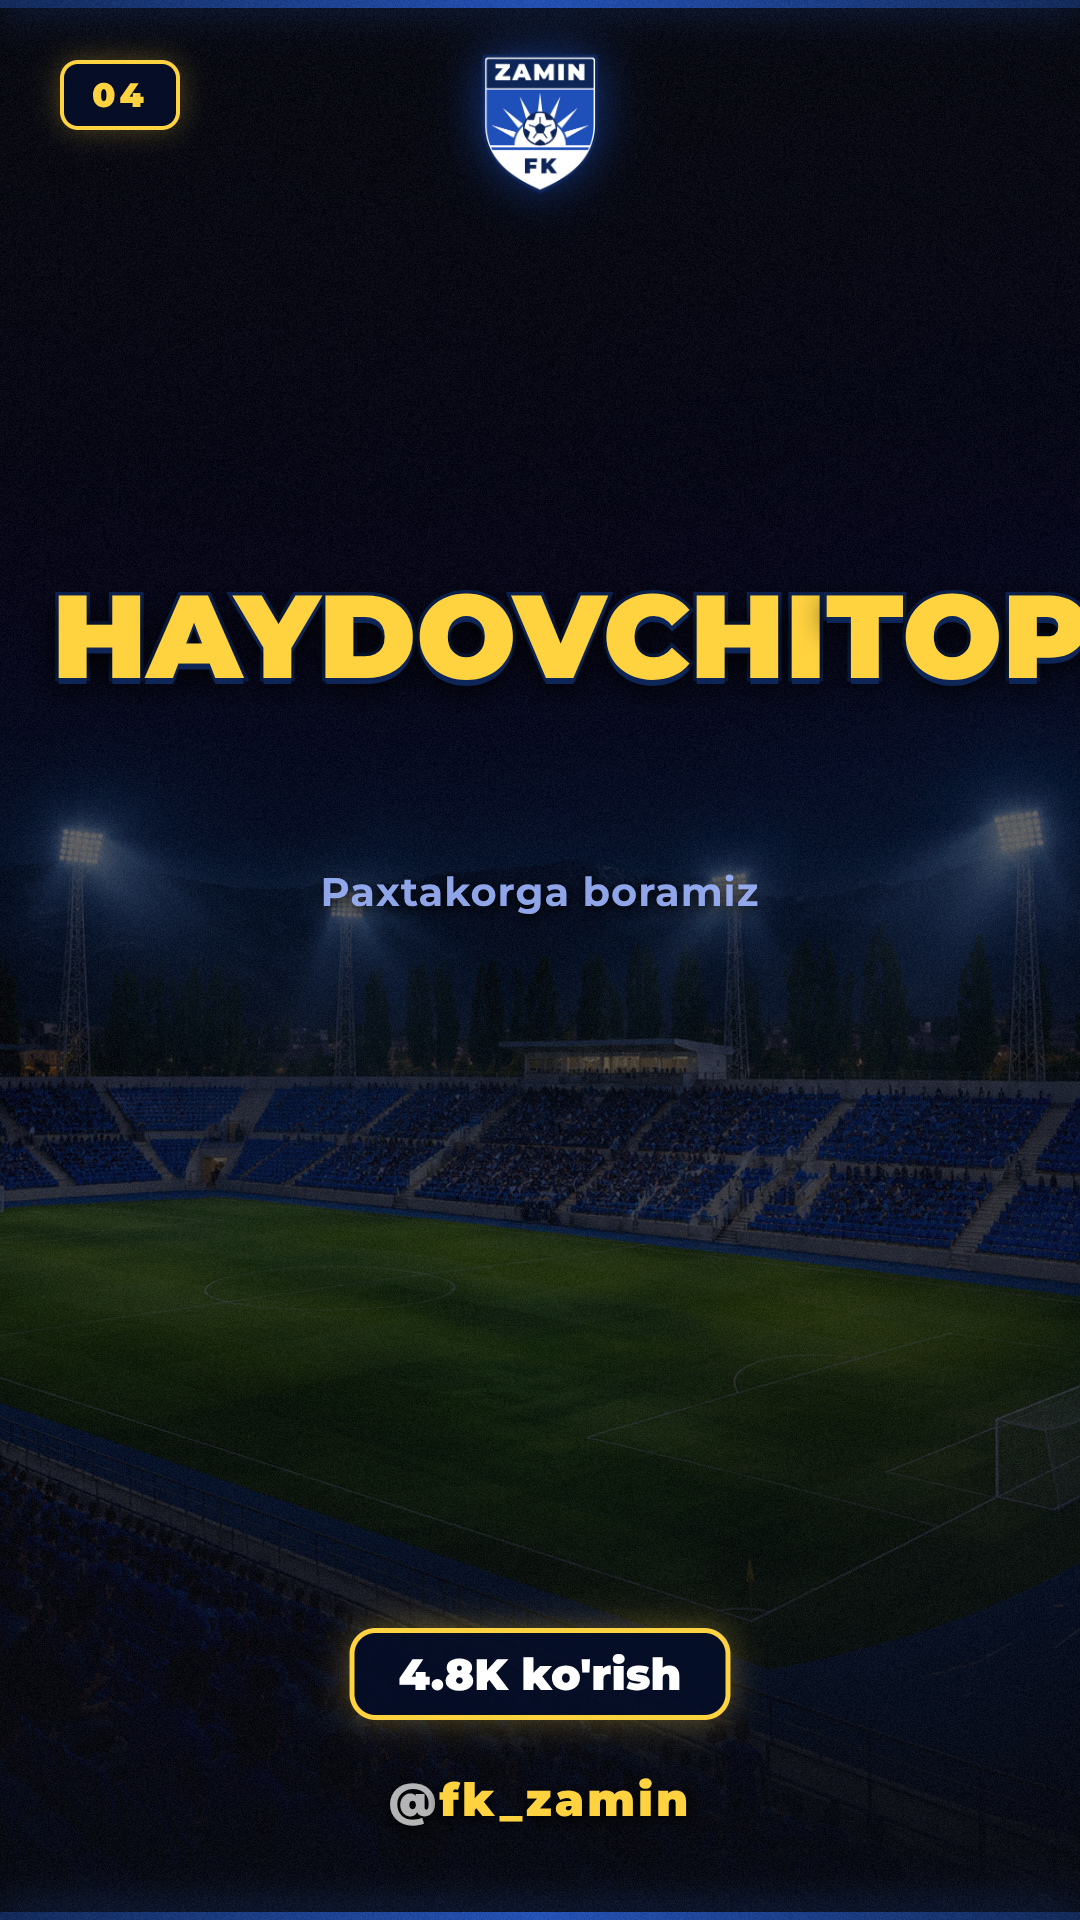
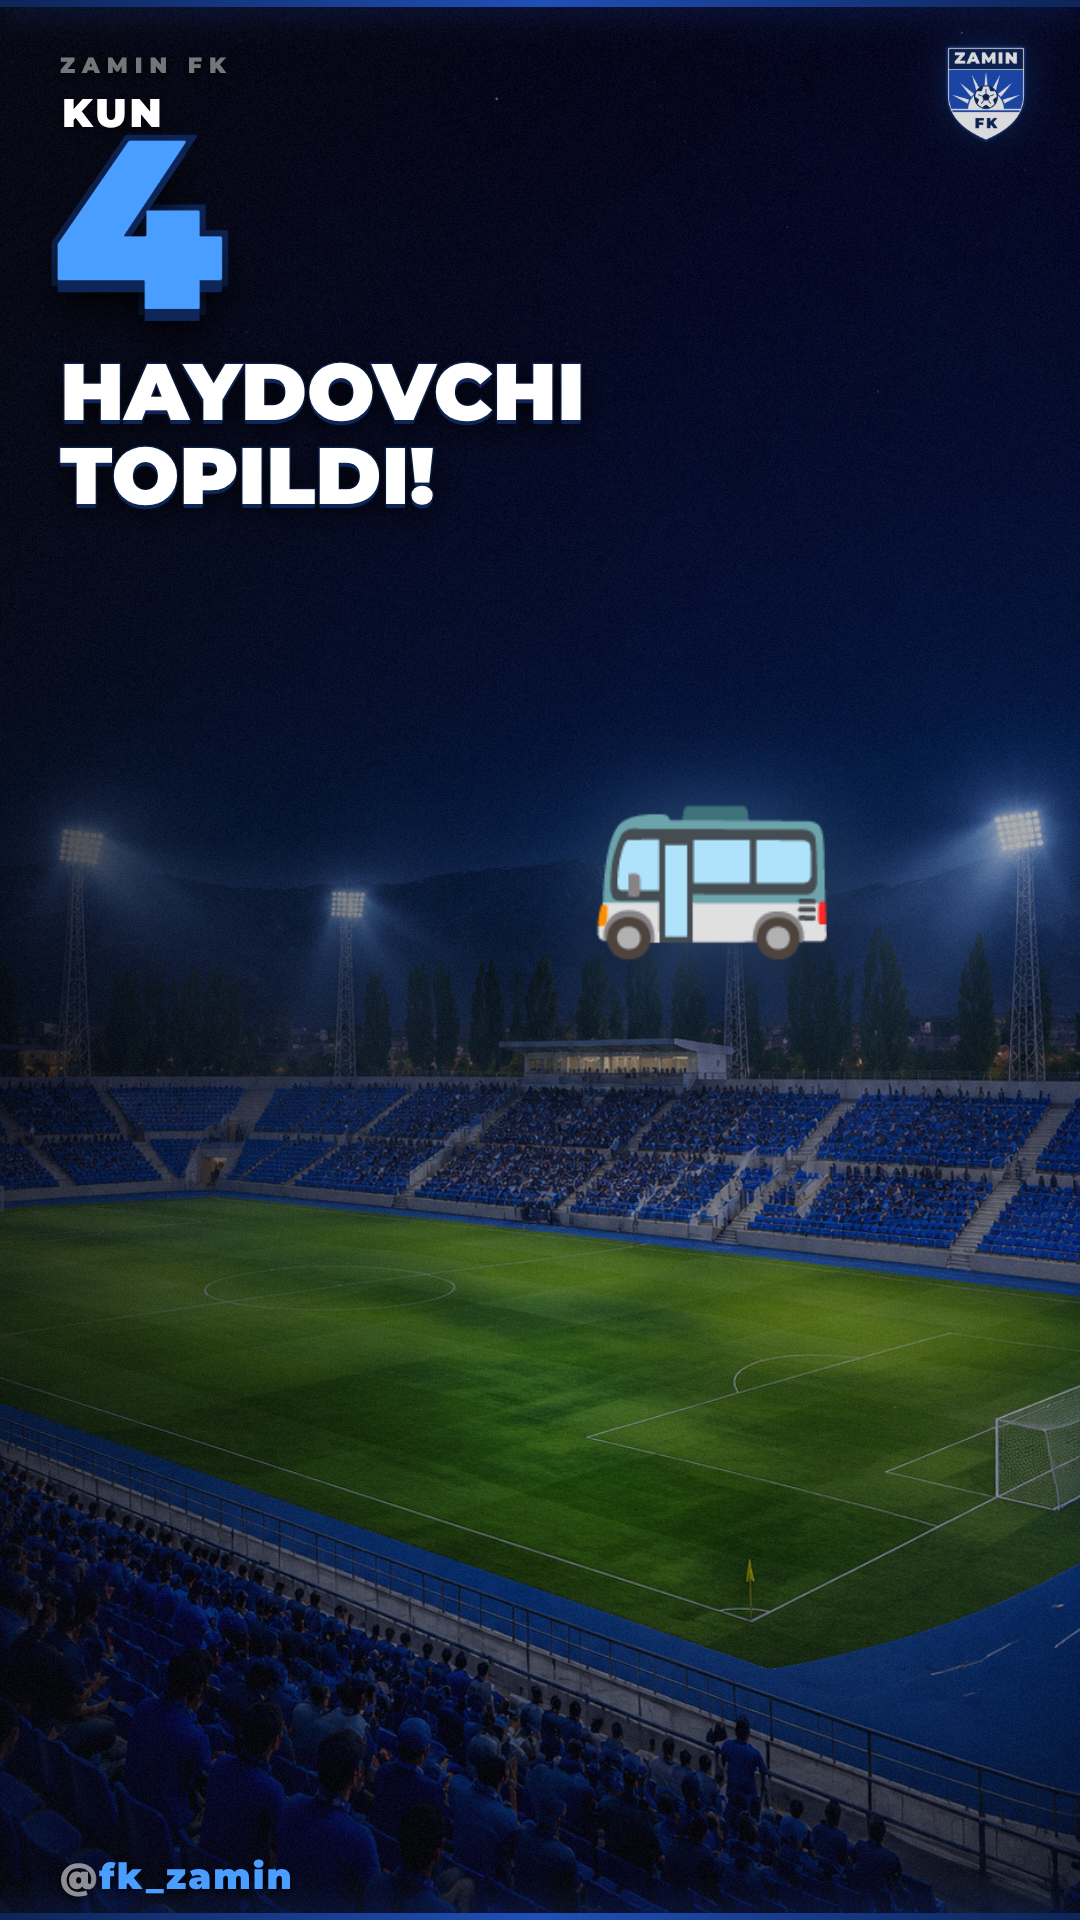
covers: add thematic center elements per episode
- Goat (special large white-glow style) for cover 4
- CSS tactical board (4-3-3 dots) for cover 14
- CSS coach card for cover 17
- CSS mini XI formation grid for cover 19
- CSS 2:2 scoreboard for cover 11
- CSS 305/500 progress bar for cover 12
- Thematic emoji (trophy, bus, ball, fire, etc.) for remaining covers

Claude-Session: https://claude.ai/code/session_017oAb5JybVNWND8Xih9kaCy

diff --git a/ZAMIN_FK/covers/render_covers.js b/ZAMIN_FK/covers/render_covers.js
@@ -14,52 +14,176 @@ const K={
  17:"K4a_father_son",18:"K2_dark", 19:"K3_full"
 };
 
-// bright: how visible the stadium image is (0=black, 1=full)
-const COVERS=[
-  {n:1,  hero:"NOLDAN\nBOSHLANDI",     sub:"Virtual klub tug'ildi",          views:5383,  bright:0.72},
-  {n:2,  hero:"STADION\nTANLANDI!",    sub:"74 muxlis. 161 layk. 1 kun.",    views:8780,  bright:0.70},
-  {n:3,  hero:"DOSTON\nYUTDI!",         sub:"Himoyachi rasman tanlandi",      views:2255,  bright:0.68},
-  {n:4,  hero:"ECHKI\nKELDI",           sub:"Klub brend yuzi aniqlandi",      views:6604,  bright:0.72},
-  {n:5,  hero:"HAYDOVCHI\nTOPILDI!",   sub:"Paxtakorga boramiz",             views:4756,  bright:0.68},
-  {n:6,  hero:"O'RIN\nO'ZGARADI",       sub:"Bot XP — asosiy jamoa parvozi", views:5407,  bright:0.70},
-  {n:7,  hero:"YOSHLAR\nAKADEMIYASI",  sub:"Ovozlarning 69% — siz tandingiz",views:2222,  bright:0.65},
-  {n:8,  hero:"JOYINGIZ\nBOR",          sub:"500 muxlisga yetgach yangi imkon",views:2069, bright:0.78},
-  {n:9,  hero:"MATCH\nOLDIDAN",         sub:"ZAMIN FK vs STAR BOYS",          views:2593,  bright:0.62},
-  {n:10, hero:"ZAMIN FK\nCITY",         sub:"Shahar o'sib bormoqda",          views:1521,  bright:0.68},
-  {n:11, hero:"2:2\nSTAR BOYS",         sub:"To'rt gol. Bir kecha.",          views:4327,  bright:0.60},
-  {n:12, hero:"STADIONNI\nTO'LDIRING",  sub:"305 / 500 muxlis",               views:11229, bright:0.65},
-  {n:13, hero:"YANGI\nMENEJER",         sub:"G'oya sizdan — shahar sizdan",   views:4702,  bright:0.72},
-  {n:14, hero:"POZITSIYA\nTANLANG",     sub:"Muxlislar B — izohda o'rningni eg'alla",views:8188,bright:0.60},
-  {n:15, hero:"DO'STING\nKIM?",         sub:"Belgilab qo'y",                  views:2679,  bright:0.70},
-  {n:16, hero:"G'OYA\nSIZDAN",          sub:"Eng ko'p layk — quriladi",       views:2778,  bright:0.72},
-  {n:17, hero:"MURABBIY\nE'LON",        sub:"@hayitboyev.76 — Muxlislar A",   views:5126,  bright:0.72},
-  {n:18, hero:"SINOV\nJAMOASI",         sub:"53 885 ko'rish — 4 537 izoh",    views:53885, bright:0.52},
-  {n:19, hero:"MUXLISLAR A\nTARKIB",   sub:"11 o'rin. Tarkib tayyor!",        views:556,   bright:0.65},
-];
+// Center element: thematic icon per cover
+// cy = vertical center % of frame (0-100)
+function centerEl(c){
+  const style=(emoji,size=220,cy=46,glow="rgba(255,210,63,.55)",cx=50)=>
+    `<div style="position:absolute;top:${cy}%;left:${cx}%;
+      transform:translate(-50%,-50%);font-size:${size}px;line-height:1;
+      filter:drop-shadow(0 0 44px ${glow}) drop-shadow(0 12px 24px rgba(0,0,0,.85))">${emoji}</div>`;
 
-function heroFontSize(hero){
-  const max=Math.max(...hero.split("\n").map(l=>l.length));
-  if(max<=5)return 192;
-  if(max<=7)return 168;
-  if(max<=9)return 142;
-  if(max<=11)return 118;
-  return 100;
+  // CSS tactical board (green mini-pitch with player dots)
+  const tacticBoard=`
+<div style="position:absolute;top:44%;left:68%;transform:translate(-50%,-50%);
+  width:280px;height:380px;background:rgba(14,120,52,.88);border-radius:16px;
+  border:3px solid rgba(255,210,63,.6);box-shadow:0 0 48px rgba(0,0,0,.8);overflow:hidden">
+  <!-- pitch lines -->
+  <div style="position:absolute;top:50%;left:0;right:0;height:2px;background:rgba(255,255,255,.25)"></div>
+  <div style="position:absolute;top:50%;left:50%;transform:translateX(-50%);
+    width:70px;height:70px;border-radius:50%;border:2px solid rgba(255,255,255,.2)"></div>
+  <!-- 4-3-3 formation dots: GK, 4 DEF, 3 MID, 3 FWD -->
+  <!-- GK -->
+  <div style="position:absolute;bottom:14px;left:50%;transform:translateX(-50%);
+    width:22px;height:22px;border-radius:50%;background:#FFD23F;border:2px solid #fff"></div>
+  <!-- DEF -->
+  ${[18,36,52,70].map(l=>`<div style="position:absolute;bottom:80px;left:${l}%;
+    transform:translateX(-50%);width:20px;height:20px;border-radius:50%;
+    background:#fff;border:2px solid #FFD23F"></div>`).join("")}
+  <!-- MID -->
+  ${[26,50,74].map(l=>`<div style="position:absolute;bottom:168px;left:${l}%;
+    transform:translateX(-50%);width:20px;height:20px;border-radius:50%;
+    background:#fff;border:2px solid #FFD23F"></div>`).join("")}
+  <!-- FWD -->
+  ${[22,50,78].map(l=>`<div style="position:absolute;bottom:252px;left:${l}%;
+    transform:translateX(-50%);width:20px;height:20px;border-radius:50%;
+    background:#FFD23F;border:2px solid #fff"></div>`).join("")}
+</div>`;
+
+  // CSS scoreboard
+  const score22=`
+<div style="position:absolute;top:42%;left:66%;transform:translate(-50%,-50%);
+  display:flex;align-items:center;gap:14px">
+  <div style="font-family:MZ,sans-serif;font-size:200px;font-weight:900;color:#fff;
+    text-shadow:0 8px 0 #0D2557,0 16px 40px rgba(0,0,0,.95);
+    -webkit-text-stroke:8px #0D2557;paint-order:stroke fill">2</div>
+  <div style="font-family:MZ,sans-serif;font-size:160px;font-weight:900;color:#F87171;
+    text-shadow:0 8px 0 #0D2557,0 16px 40px rgba(0,0,0,.9)">:</div>
+  <div style="font-family:MZ,sans-serif;font-size:200px;font-weight:900;color:#fff;
+    text-shadow:0 8px 0 #0D2557,0 16px 40px rgba(0,0,0,.95);
+    -webkit-text-stroke:8px #0D2557;paint-order:stroke fill">2</div>
+</div>`;
+
+  // mini XI formation grid (cover 19)
+  const miniXI=`
+<div style="position:absolute;top:40%;left:68%;transform:translate(-50%,-50%);
+  width:260px;height:380px;background:rgba(14,120,52,.85);border-radius:14px;
+  border:3px solid rgba(255,210,63,.5);box-shadow:0 0 48px rgba(0,0,0,.8);padding:12px 8px">
+  <div style="font-family:MZ,sans-serif;font-size:18px;color:#FFD23F;font-weight:900;
+    text-align:center;letter-spacing:3px;margin-bottom:8px">MUXLISLAR A</div>
+  ${[["ST"],["RW","CAM","LW"],["CDM","CM"],["RB","CB","CB","LB"],["GK"]].map((row,ri)=>`
+  <div style="display:flex;justify-content:center;gap:6px;margin:${ri===0?8:6}px 0">
+    ${row.map(p=>`<div style="width:42px;text-align:center">
+      <div style="width:28px;height:28px;border-radius:50%;background:#FFD23F;
+        border:2px solid #fff;margin:0 auto 2px"></div>
+      <div style="font-family:MZ,sans-serif;font-size:11px;color:rgba(255,255,255,.8);
+        font-weight:700">${p}</div>
+    </div>`).join("")}
+  </div>`).join("")}
+</div>`;
+
+  // CSS changing room board (cover 17 coach)
+  const coachBoard=`
+<div style="position:absolute;top:42%;left:68%;transform:translate(-50%,-50%);
+  width:300px;height:280px;background:rgba(10,20,60,.9);border-radius:14px;
+  border:4px solid #FFD23F;box-shadow:0 0 48px rgba(255,210,63,.3),0 0 80px rgba(0,0,0,.8);
+  padding:20px 24px">
+  <div style="font-family:MZ,sans-serif;font-size:18px;color:#9fb6ff;font-weight:900;
+    letter-spacing:4px;margin-bottom:10px">MURABBIY</div>
+  <div style="font-family:MZ,sans-serif;font-size:28px;color:#FFD23F;font-weight:900;
+    margin-bottom:16px">@hayitboyev.76</div>
+  ${["HIMOYA: 4-1","O'RTA: 3","HUJUM: 3","TAKTIKA: 4-3-3"].map(l=>`
+  <div style="font-family:MZ,sans-serif;font-size:20px;color:rgba(255,255,255,.75);
+    font-weight:700;margin:6px 0;border-left:3px solid #FFD23F;padding-left:10px">${l}</div>`).join("")}
+</div>`;
+
+  // goat special: large, center-right, white/ethereal glow (different from other icons)
+  const goatSpecial=`
+<div style="position:absolute;top:44%;left:66%;transform:translate(-50%,-50%);
+  font-size:300px;line-height:1;
+  filter:drop-shadow(0 0 80px rgba(255,255,255,.6)) drop-shadow(0 0 160px rgba(255,210,63,.35))
+         drop-shadow(0 16px 32px rgba(0,0,0,.9))">🐐</div>
+<div style="position:absolute;top:66%;left:66%;transform:translate(-50%,-50%);
+  font-family:MZ,sans-serif;font-size:36px;font-weight:900;color:#FFD23F;
+  letter-spacing:6px;text-shadow:0 4px 0 #0D2557,0 8px 20px rgba(0,0,0,.9);
+  -webkit-text-stroke:2px #0D2557;paint-order:stroke fill">ZAMIN FK MASKOTI</div>`;
+
+  // progress bar (cover 12)
+  const progress=`
+<div style="position:absolute;top:44%;left:66%;transform:translate(-50%,-50%);
+  width:300px">
+  <div style="font-family:MZ,sans-serif;font-size:88px;font-weight:900;color:#FFD23F;
+    text-align:center;text-shadow:0 6px 0 #0D2557,0 10px 30px rgba(0,0,0,.9);
+    -webkit-text-stroke:5px #0D2557;paint-order:stroke fill">305</div>
+  <div style="height:12px;background:rgba(255,255,255,.15);border-radius:6px;margin:8px 0">
+    <div style="height:100%;width:61%;background:#FFD23F;border-radius:6px;
+      box-shadow:0 0 20px rgba(255,210,63,.6)"></div>
+  </div>
+  <div style="font-family:MZ,sans-serif;font-size:26px;color:rgba(255,255,255,.65);
+    font-weight:900;text-align:center;letter-spacing:2px">/ 500 MUXLIS</div>
+</div>`;
+
+  switch(c.n){
+    case 1:  return style("🏗",210,44,"rgba(255,180,0,.5)");
+    case 2:  return style("🗳",200,44,"rgba(255,180,0,.5)",66);
+    case 3:  return style("🏆",220,44,"rgba(255,215,0,.6)",66);
+    case 4:  return goatSpecial;
+    case 5:  return style("🚌",200,44,"rgba(100,160,255,.5)",66);
+    case 6:  return style("⚡",220,44,"rgba(168,85,247,.6)",66);
+    case 7:  return style("🌟",210,44,"rgba(52,211,153,.5)",66);
+    case 8:  return style("🎟",200,44,"rgba(100,160,255,.4)",66);
+    case 9:  return style("⚽",220,44,"rgba(255,255,255,.3)",66);
+    case 10: return style("🏙",200,44,"rgba(255,215,0,.4)",66);
+    case 11: return score22;
+    case 12: return progress;
+    case 13: return style("🪑",210,44,"rgba(168,85,247,.5)",66);
+    case 14: return tacticBoard;
+    case 15: return style("👥",210,44,"rgba(255,107,157,.4)",66);
+    case 16: return style("💡",220,44,"rgba(255,215,0,.55)",66);
+    case 17: return coachBoard;
+    case 18: return style("🔥",280,42,"rgba(255,69,0,.5)",66);
+    case 19: return miniXI;
+  }
+  return "";
 }
 
-function viewsFmt(v){
-  if(v>=1000)return(Math.round(v/100)/10)+"K";
-  return String(v);
+const COVERS=[
+  {n:1,  label:"KUN",   num:"1",    title:"NOLDAN\nBOSHLANDI",   accent:"#FF6B9D", bright:0.72},
+  {n:2,  label:"KUN",   num:"2",    title:"STADION\nTANLANDI!",  accent:"#FF8C42", bright:0.70},
+  {n:3,  label:"KUN",   num:"3",    title:"DOSTON\nYUTDI!",       accent:"#00C85A", bright:0.68},
+  {n:4,  label:"KUN",   num:"3+",   title:"ECHKI\nKELDI",         accent:"#FFD23F", bright:0.72},
+  {n:5,  label:"KUN",   num:"4",    title:"HAYDOVCHI\nTOPILDI!",  accent:"#4A9EFF", bright:0.68},
+  {n:6,  label:"",      num:"XP",   title:"O'RIN\nO'ZGARADI",     accent:"#A855F7", bright:0.70},
+  {n:7,  label:"KUN",   num:"5",    title:"YOSHLAR\nAKADEMIYASI", accent:"#34D399", bright:0.65},
+  {n:8,  label:"KUN",   num:"6",    title:"JOYINGIZ\nBOR",         accent:"#60A5FA", bright:0.78},
+  {n:9,  label:"KUN",   num:"8",    title:"MATCH\nOLDIDAN",        accent:"#F87171", bright:0.62},
+  {n:10, label:"KUN",   num:"9",    title:"ZAMIN FK\nCITY",        accent:"#FFD23F", bright:0.68},
+  {n:11, label:"",      num:"2:2",  title:"STAR BOYS",             accent:"#F87171", bright:0.60},
+  {n:12, label:"REEL",  num:"12",   title:"STADIONNI\nTO'LDIRING", accent:"#FFD23F", bright:0.65},
+  {n:13, label:"REEL",  num:"13",   title:"YANGI\nMENEJER",        accent:"#A855F7", bright:0.72},
+  {n:14, label:"REEL",  num:"16",   title:"POZITSIYA\nTANLANG",    accent:"#4A9EFF", bright:0.60},
+  {n:15, label:"REEL",  num:"14",   title:"DO'STING\nKIM?",        accent:"#FF6B9D", bright:0.70},
+  {n:16, label:"KUN",   num:"11",   title:"G'OYA\nSIZDAN",         accent:"#FFD23F", bright:0.72},
+  {n:17, label:"REEL",  num:"17",   title:"MURABBIY\nE'LON",        accent:"#00C85A", bright:0.72},
+  {n:18, label:"VIRAL", num:"🔥",   title:"SINOV\nJAMOASI",        accent:"#FF4500", bright:0.52},
+  {n:19, label:"REEL",  num:"18",   title:"MUXLISLAR A\nTARKIB",   accent:"#FFD23F", bright:0.65},
+];
+
+function numSize(num){
+  const n=num.replace(/[^a-zA-Z0-9]/g,"").length;
+  if(n<=1)return 240; if(n<=2)return 195; return 155;
+}
+function titleSize(title){
+  const max=Math.max(...title.split("\n").map(l=>l.length));
+  if(max<=5)return 112; if(max<=7)return 96; if(max<=9)return 80;
+  if(max<=12)return 68; return 58;
 }
 
 function makeHtml(c){
   const bg=`${ASSETS}/${K[c.n]}.png`;
-  const fh=heroFontSize(c.hero);
-  const lines=c.hero.split("\n").length;
-  // text block height (hero + divider + sub)
-  const textH=lines*fh*1.03+20+56+30;
-  // text block starts at y=1300 (lower third, 68% down the frame)
-  const textTop=1300;
-  const stroke=Math.round(fh*0.055);
+  const ns=numSize(c.num), ts=titleSize(c.title);
+  const numStroke=Math.round(ns*0.05);
+  const numTop=c.label?118:88;
+  const titleTop=numTop+Math.round(ns*0.9)+16;
 
   return`<!DOCTYPE html><html><head><meta charset="utf-8"><style>
 @font-face{font-family:MZ;font-weight:900;src:url(${FONT_B})}
@@ -68,76 +192,62 @@ function makeHtml(c){
 body{width:1080px;height:1920px;overflow:hidden;background:#02040c;font-family:MZ,sans-serif}
 </style></head><body>
 
-<!-- background: sharp cinematic K-image, stadium VISIBLE -->
 <img src="${bg}" style="position:absolute;inset:0;width:1080px;height:1920px;
-  object-fit:cover;filter:brightness(${c.bright}) saturate(1.3) contrast(1.05)">
+  object-fit:cover;filter:brightness(${c.bright}) saturate(1.25) contrast(1.06)">
 
-<!-- bottom gradient: stadium → text area -->
-<div style="position:absolute;inset:0;background:linear-gradient(180deg,
-  rgba(2,4,12,0.0)  0%,
-  rgba(2,4,12,0.0)  38%,
-  rgba(2,4,12,0.3)  52%,
-  rgba(2,4,12,0.72) 60%,
-  rgba(2,4,12,0.95) 72%,
-  rgba(2,4,12,1.0)  82%)"></div>
+<!-- left vignette for text legibility -->
+<div style="position:absolute;inset:0;background:linear-gradient(100deg,
+  rgba(2,4,12,.80) 0%,rgba(2,4,12,.30) 32%,rgba(2,4,12,.0) 55%)"></div>
 
-<!-- very subtle top-edge vignette for crest area -->
-<div style="position:absolute;top:0;left:0;right:0;height:280px;
-  background:linear-gradient(180deg,rgba(2,4,12,.62) 0%,transparent 100%)"></div>
+<!-- bottom fade -->
+<div style="position:absolute;bottom:0;left:0;right:0;height:360px;
+  background:linear-gradient(0deg,rgba(2,4,12,.55) 0%,transparent 100%)"></div>
 
-<!-- film grain -->
-<canvas id="gr" width="1080" height="1920" style="position:absolute;inset:0;opacity:0.05;pointer-events:none"></canvas>
+<canvas id="gr" width="1080" height="1920" style="position:absolute;inset:0;opacity:0.045;pointer-events:none"></canvas>
 
-<!-- blue accent bar: TOP -->
+<!-- blue accent bars -->
 <div style="position:absolute;top:0;left:0;right:0;height:7px;
-  background:linear-gradient(90deg,#0D2557 0%,#1F4FB8 50%,#0D2557 100%);
+  background:linear-gradient(90deg,#0D2557,#1F4FB8,#0D2557);
   box-shadow:0 2px 32px rgba(31,79,184,.75)"></div>
-
-<!-- crest top-center -->
-<img src="${CREST}" style="position:absolute;top:52px;left:50%;transform:translateX(-50%);
-  height:116px;filter:drop-shadow(0 0 20px rgba(31,79,184,.6)) drop-shadow(0 4px 14px rgba(0,0,0,.85))">
-
-<!-- hero text: left-aligned, lower third -->
-<div style="position:absolute;top:${textTop}px;left:64px;right:64px;">
-
-  <!-- headline: .hd b style from R12 — gold + navy 3D shadow -->
-  <div style="font-size:${fh}px;font-weight:900;line-height:1.03;
-    color:#FFD23F;
-    text-shadow:0 ${Math.round(fh*0.055)}px 0 #0D2557,0 ${Math.round(fh*0.1)}px 32px rgba(0,0,0,.95);
-    -webkit-text-stroke:${stroke}px #0D2557;paint-order:stroke fill;
-    letter-spacing:-1px">${c.hero.replace(/\n/g,"<br>")}</div>
-
-  <!-- gold divider line -->
-  <div style="margin:18px 0 16px;width:72px;height:5px;
-    background:#FFD23F;box-shadow:0 0 16px rgba(255,210,63,.5)"></div>
-
-  <!-- sub text -->
-  <div style="font-size:38px;color:rgba(159,182,255,0.85);font-weight:700;
-    letter-spacing:0.5px;line-height:1.35;
-    text-shadow:0 3px 10px rgba(0,0,0,.9)">${c.sub}</div>
-
-</div>
-
-<!-- bottom bar: views + handle -->
-<div style="position:absolute;bottom:52px;left:64px;right:64px;
-  display:flex;align-items:center;justify-content:space-between">
-
-  <div style="font-size:40px;color:#FFD23F;font-weight:900;
-    text-shadow:0 3px 10px rgba(0,0,0,.9)">
-    <span style="font-size:52px">${viewsFmt(c.views)}</span>
-    <span style="font-size:32px;color:rgba(159,182,255,.7);font-weight:700"> ko'rish</span>
-  </div>
-
-  <div style="font-size:38px;color:rgba(255,255,255,.65);font-weight:900;
-    letter-spacing:2px;text-shadow:0 3px 10px rgba(0,0,0,.9)">
-    @<span style="color:#FFD23F">fk_zamin</span>
-  </div>
-</div>
-
-<!-- blue accent bar: BOTTOM -->
 <div style="position:absolute;bottom:0;left:0;right:0;height:7px;
-  background:linear-gradient(90deg,#0D2557 0%,#1F4FB8 50%,#0D2557 100%);
+  background:linear-gradient(90deg,#0D2557,#1F4FB8,#0D2557);
   box-shadow:0 -2px 32px rgba(31,79,184,.75)"></div>
+
+<!-- TOP-LEFT: series slug -->
+<div style="position:absolute;top:52px;left:60px;
+  font-size:22px;font-weight:900;color:rgba(255,255,255,.45);letter-spacing:7px;
+  text-shadow:0 2px 8px rgba(0,0,0,.8)">ZAMIN FK</div>
+
+<!-- label -->
+${c.label?`<div style="position:absolute;top:88px;left:62px;
+  font-size:40px;font-weight:900;color:#fff;letter-spacing:3px;
+  text-shadow:0 3px 12px rgba(0,0,0,.9)">${c.label}</div>`:""}
+
+<!-- BIG NUMBER -->
+<div style="position:absolute;top:${numTop}px;left:52px;
+  font-size:${ns}px;font-weight:900;line-height:0.88;
+  color:${c.accent};
+  text-shadow:0 ${Math.round(ns*0.05)}px 0 #0D2557,0 ${Math.round(ns*0.1)}px 36px rgba(0,0,0,.95);
+  -webkit-text-stroke:${numStroke}px #0D2557;paint-order:stroke fill">${c.num}</div>
+
+<!-- TITLE -->
+<div style="position:absolute;top:${titleTop}px;left:60px;
+  font-size:${ts}px;font-weight:900;line-height:1.05;color:#fff;
+  text-shadow:0 4px 0 #0D2557,0 8px 28px rgba(0,0,0,.9);
+  -webkit-text-stroke:${Math.round(ts*0.04)}px #0D2557;paint-order:stroke fill">${c.title.replace(/\n/g,"<br>")}</div>
+
+<!-- CENTER ELEMENT -->
+${centerEl(c)}
+
+<!-- TOP-RIGHT: crest -->
+<img src="${CREST}" style="position:absolute;top:44px;right:52px;
+  height:100px;opacity:0.85;
+  filter:drop-shadow(0 0 16px rgba(31,79,184,.5)) drop-shadow(0 4px 10px rgba(0,0,0,.8))">
+
+<!-- BOTTOM: handle -->
+<div style="position:absolute;bottom:22px;left:60px;
+  font-size:36px;color:rgba(255,255,255,.55);font-weight:900;letter-spacing:2px;
+  text-shadow:0 2px 8px rgba(0,0,0,.8)">@<span style="color:${c.accent}">fk_zamin</span></div>
 
 <script>
 (function(){
@@ -156,15 +266,12 @@ body{width:1080px;height:1920px;overflow:hidden;background:#02040c;font-family:M
   const p=await b.newPage({viewport:{width:1080,height:1920},deviceScaleFactor:1});
   p.on("pageerror",e=>console.error("[err]",String(e).slice(0,200)));
   for(const c of COVERS){
-    const html=makeHtml(c);
-    const tmp=HERE+"/current.html";
-    fs.writeFileSync(tmp,html,"utf8");
-    await p.goto("file://"+tmp);
+    fs.writeFileSync(HERE+"/current.html",makeHtml(c),"utf8");
+    await p.goto("file://"+HERE+"/current.html");
     await p.evaluate(()=>document.fonts.ready);
     await p.waitForTimeout(400);
-    const out=`${EXP}/cover_${String(c.n).padStart(2,"0")}.png`;
-    await p.screenshot({path:out,type:"png"});
-    process.stdout.write(`✓ ${c.n}/19 `);
+    await p.screenshot({path:`${EXP}/cover_${String(c.n).padStart(2,"0")}.png`,type:"png"});
+    process.stdout.write(`✓${c.n} `);
   }
   if(fs.existsSync(HERE+"/current.html"))fs.unlinkSync(HERE+"/current.html");
   await b.close();
